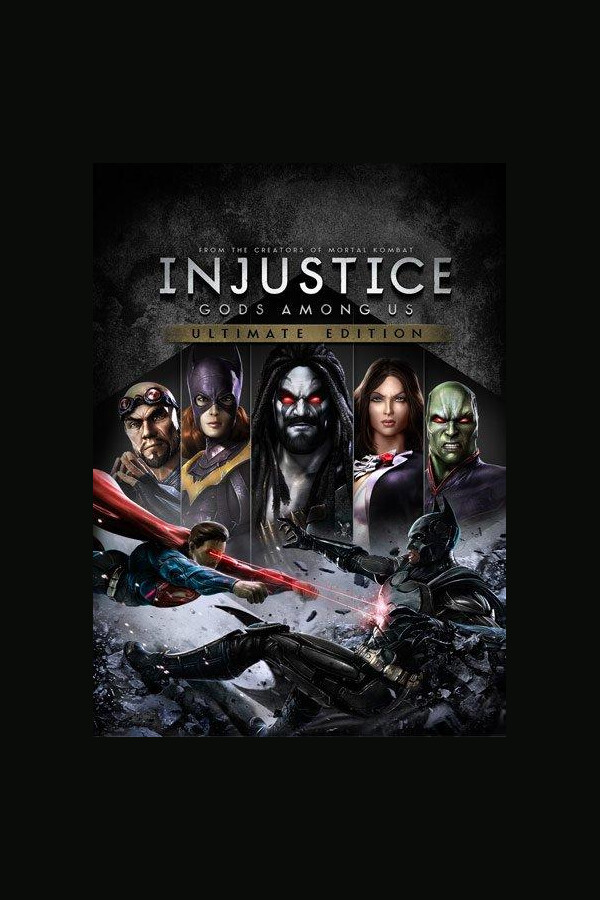
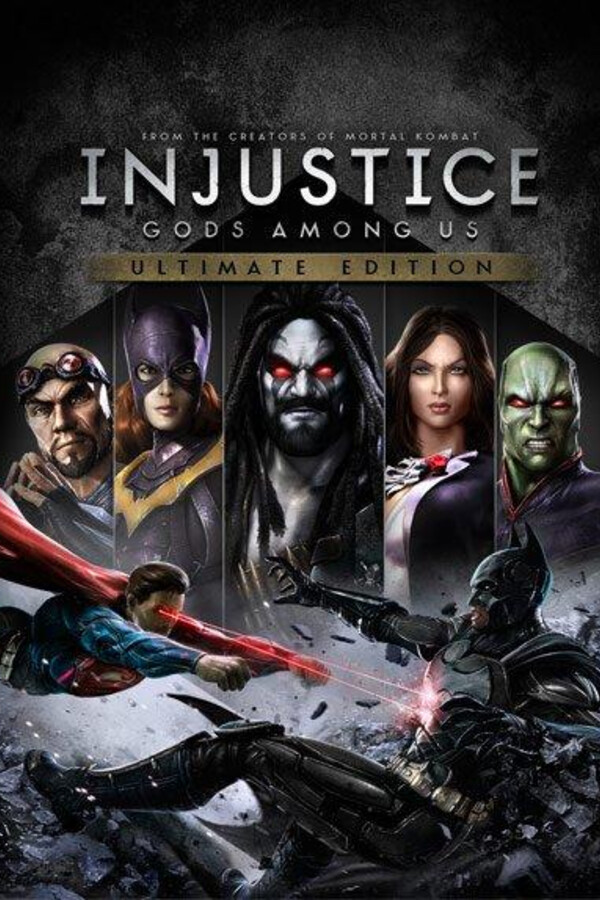
Fill PS4 cover cards edge to edge

diff --git a/games.js b/games.js
@@ -2,6 +2,10 @@ function portraitArtwork(source) {
   return `https://images.weserv.nl/?url=${encodeURIComponent(source)}&w=600&h=900&fit=contain&bg=090c09&output=jpg`;
 }
 
+function fullPortraitArtwork(source) {
+  return `https://images.weserv.nl/?url=${encodeURIComponent(source)}&w=600&h=900&fit=cover&output=jpg`;
+}
+
 const pcRows = [
   ["30XX", 1029210],
   ["Albion Online", 761890],
@@ -195,7 +199,7 @@ const ps4Rows = [
   ["Batman: Arkham Knight", "https://cdn.cloudflare.steamstatic.com/steam/apps/208650/library_600x900.jpg"],
   ["Batman: Return to Arkham - Arkham City", "https://cdn.cloudflare.steamstatic.com/steam/apps/200260/library_600x900.jpg"],
   ["Batman: Return to Arkham - Arkham Asylum", "https://cdn.cloudflare.steamstatic.com/steam/apps/35140/library_600x900.jpg"],
-  ["Dragon's Crown Pro", portraitArtwork("https://down-tw.img.susercontent.com/file/tw-11134207-81zto-mj4fr4w9f85j82")],
+  ["Dragon's Crown Pro", fullPortraitArtwork("https://down-tw.img.susercontent.com/file/tw-11134207-81zto-mj4fr4w9f85j82")],
   ["Monster Hunter World: Iceborne", portraitArtwork("https://gpstatic.com/acache/37/06/4/us/packshot-a7ba6f165f7d613db4b7874a73dca256.jpg")],
   ["Tom Clancy's The Division", "https://cdn.cloudflare.steamstatic.com/steam/apps/365590/library_600x900.jpg"],
   ["Dark Souls III", "https://cdn.cloudflare.steamstatic.com/steam/apps/374320/library_600x900.jpg"],
@@ -234,7 +238,7 @@ const ps4Rows = [
   ["Paragon", "assets/covers/ps4/paragon.jpg"],
   ["Resident Evil 6", "https://cdn.cloudflare.steamstatic.com/steam/apps/221040/library_600x900.jpg"],
   ["Resident Evil 5", "https://cdn.cloudflare.steamstatic.com/steam/apps/21690/library_600x900.jpg"],
-  ["STAR OCEAN: Integrity and Faithlessness", portraitArtwork("https://scale.coolshop-cdn.com/product-media.coolshop-cdn.com/AF7Z2E/942c3487cb194800a8dd8a263c45dd5a.jpeg/f/star-ocean-integrity-and-faithlessness.jpeg")],
+  ["STAR OCEAN: Integrity and Faithlessness", "assets/covers/ps4/star-ocean-integrity-and-faithlessness.jpg"],
   ["ONE PIECE: PIRATE WARRIORS 3", portraitArtwork("https://www.chilesteam.cl/337-large_default/one-piece-pirate-warriors-3.jpg")],
   ["Dark Cloud", "assets/covers/ps4/dark-cloud.jpg"],
   ["Dark Cloud 2", portraitArtwork("https://i.3djuegos.com/juegos/12684/dark_cloud_2/fotos/ficha/dark_cloud_2-3274310.webp")],

diff --git a/index.html b/index.html
@@ -9,15 +9,15 @@
     />
     <meta name="theme-color" content="#050706" />
     <title>ThyToxicGamer Game Library</title>
-    <link rel="stylesheet" href="styles.css?v=1.0.11" />
-    <link rel="stylesheet" href="dashboard.css?v=1.0.11" />
-    <link rel="stylesheet" href="request-test.css?v=1.0.11" />
+    <link rel="stylesheet" href="styles.css?v=1.0.12" />
+    <link rel="stylesheet" href="dashboard.css?v=1.0.12" />
+    <link rel="stylesheet" href="request-test.css?v=1.0.12" />
     <script src="https://cdn.jsdelivr.net/npm/@supabase/supabase-js@2" defer></script>
-    <script src="supabase-config.js?v=1.0.11" defer></script>
-    <script src="games.js?v=1.0.11" defer></script>
-    <script src="app.js?v=1.0.11" defer></script>
-    <script src="dashboard.js?v=1.0.11" defer></script>
-    <script src="request-test.js?v=1.0.11" defer></script>
+    <script src="supabase-config.js?v=1.0.12" defer></script>
+    <script src="games.js?v=1.0.12" defer></script>
+    <script src="app.js?v=1.0.12" defer></script>
+    <script src="dashboard.js?v=1.0.12" defer></script>
+    <script src="request-test.js?v=1.0.12" defer></script>
   </head>
   <body>
     <a class="skip-link" href="#game-library">Skip to game library</a>
